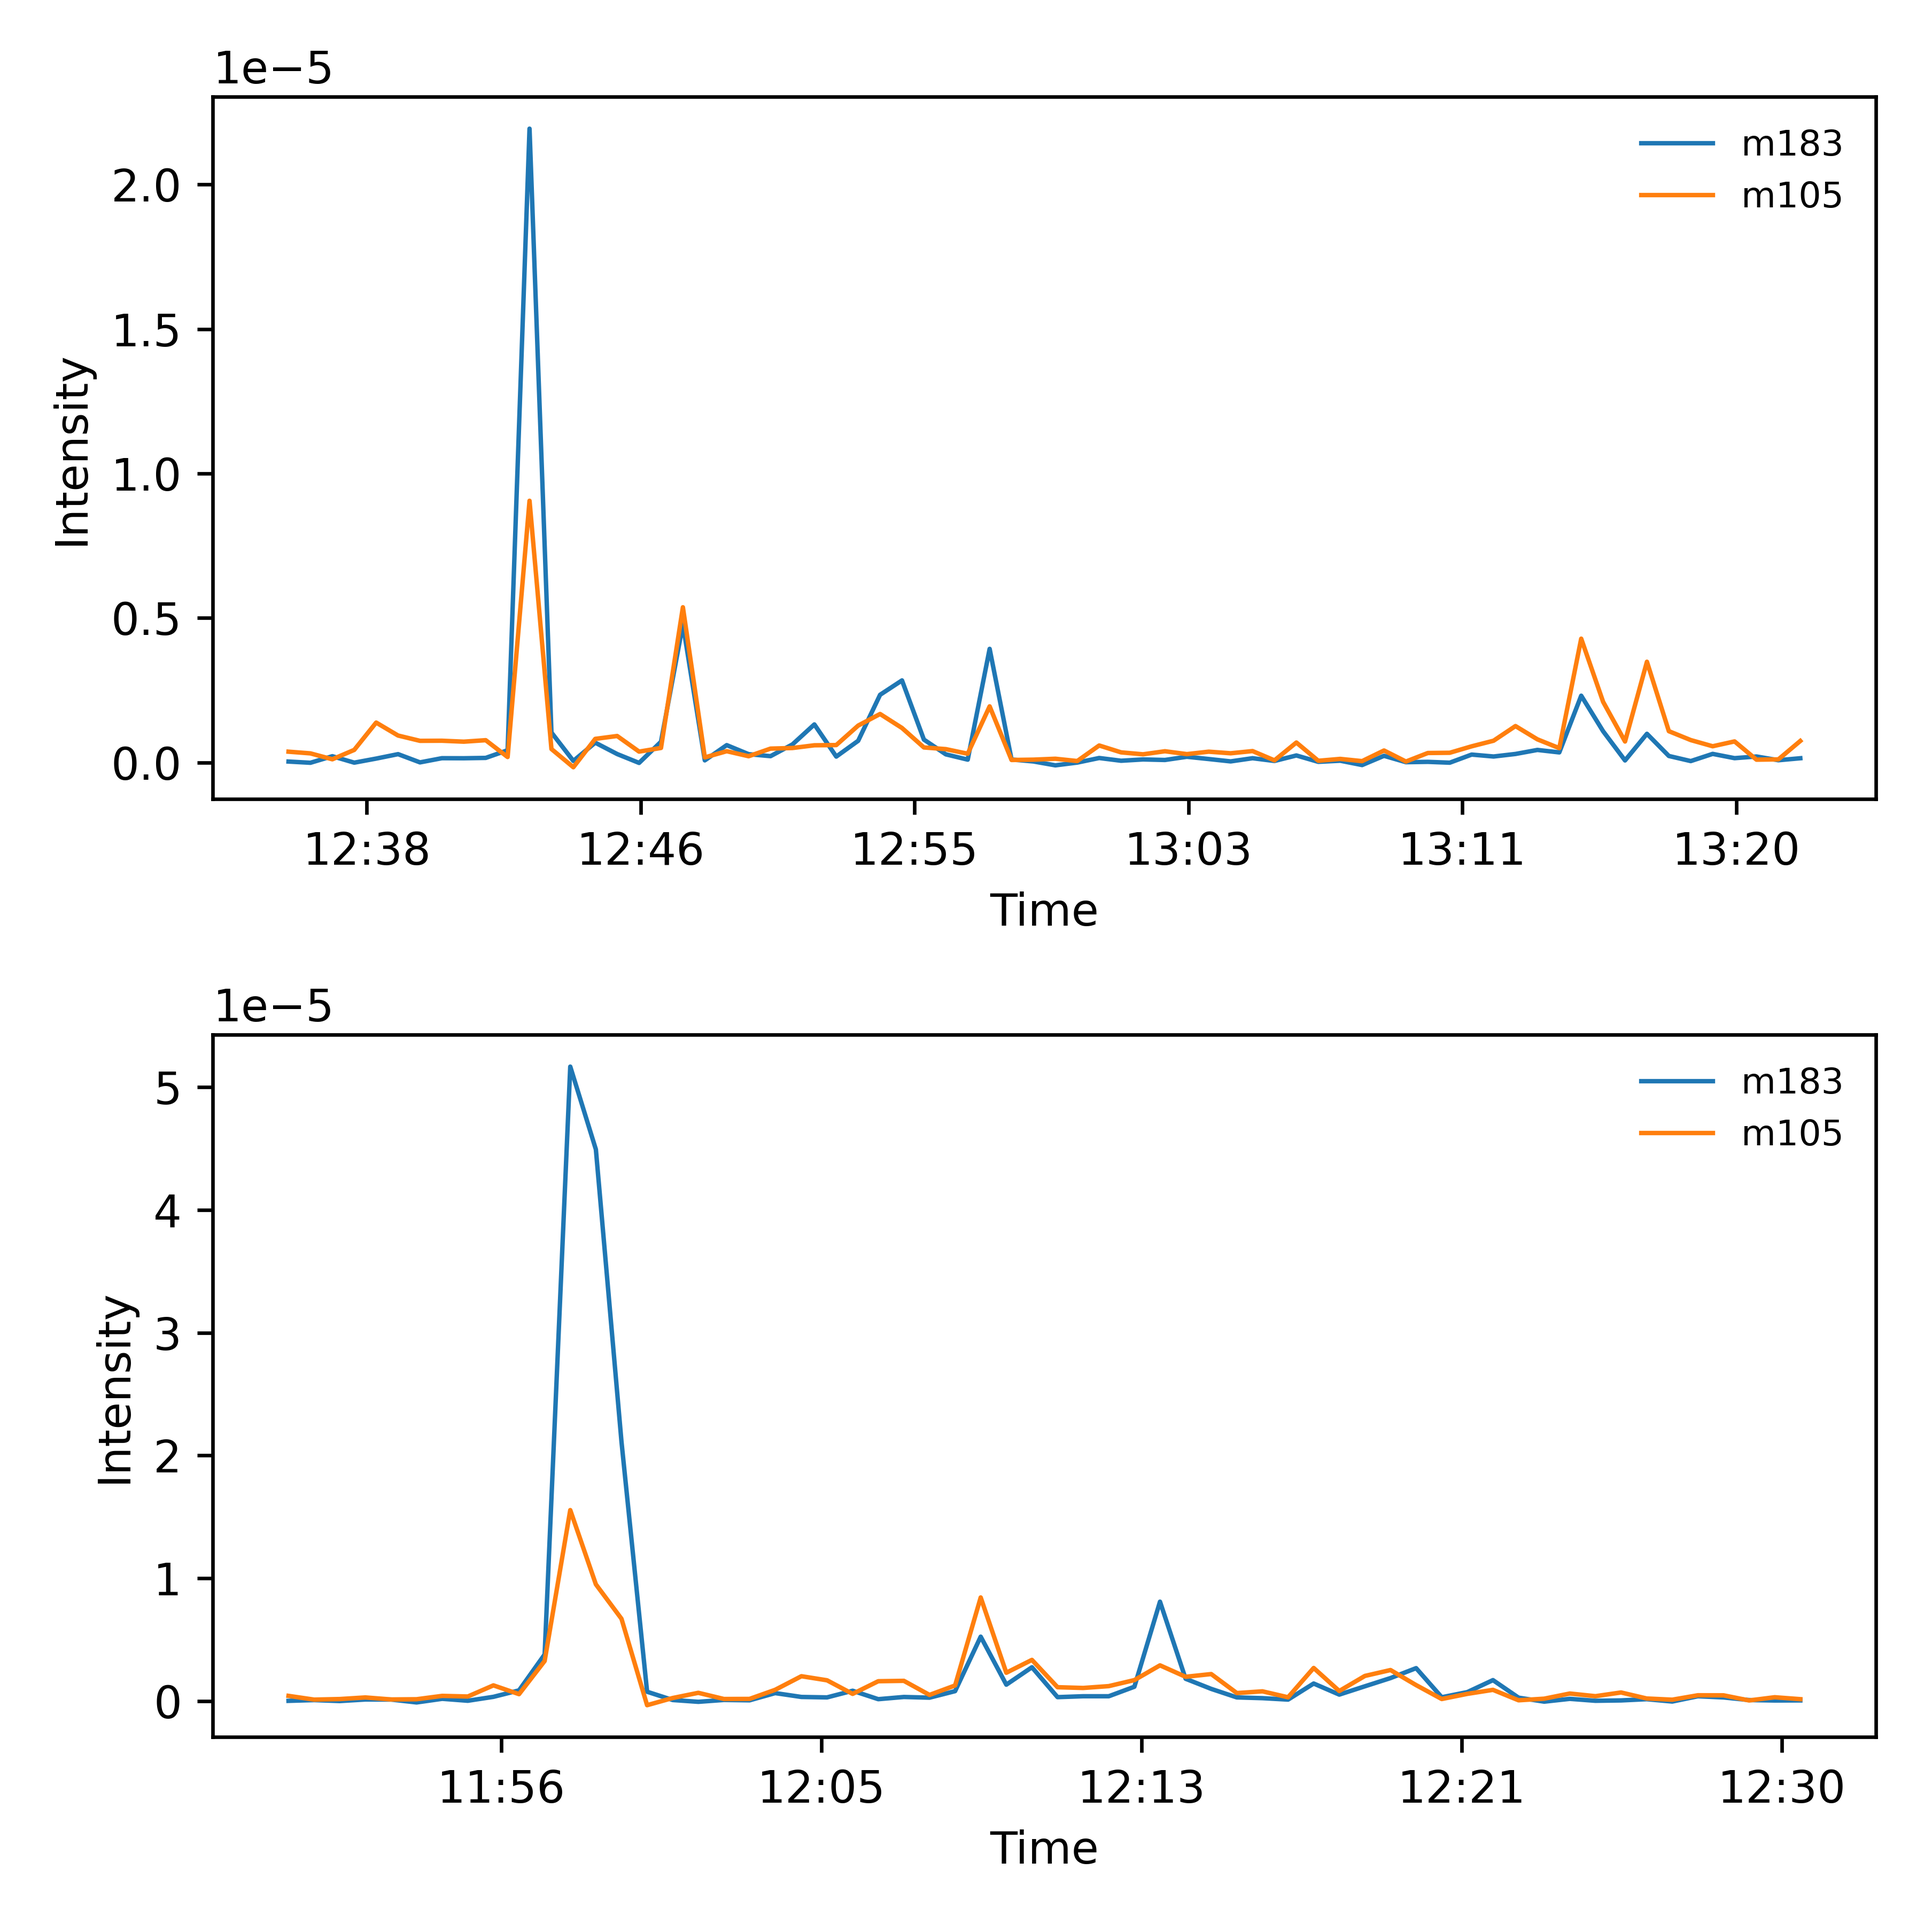
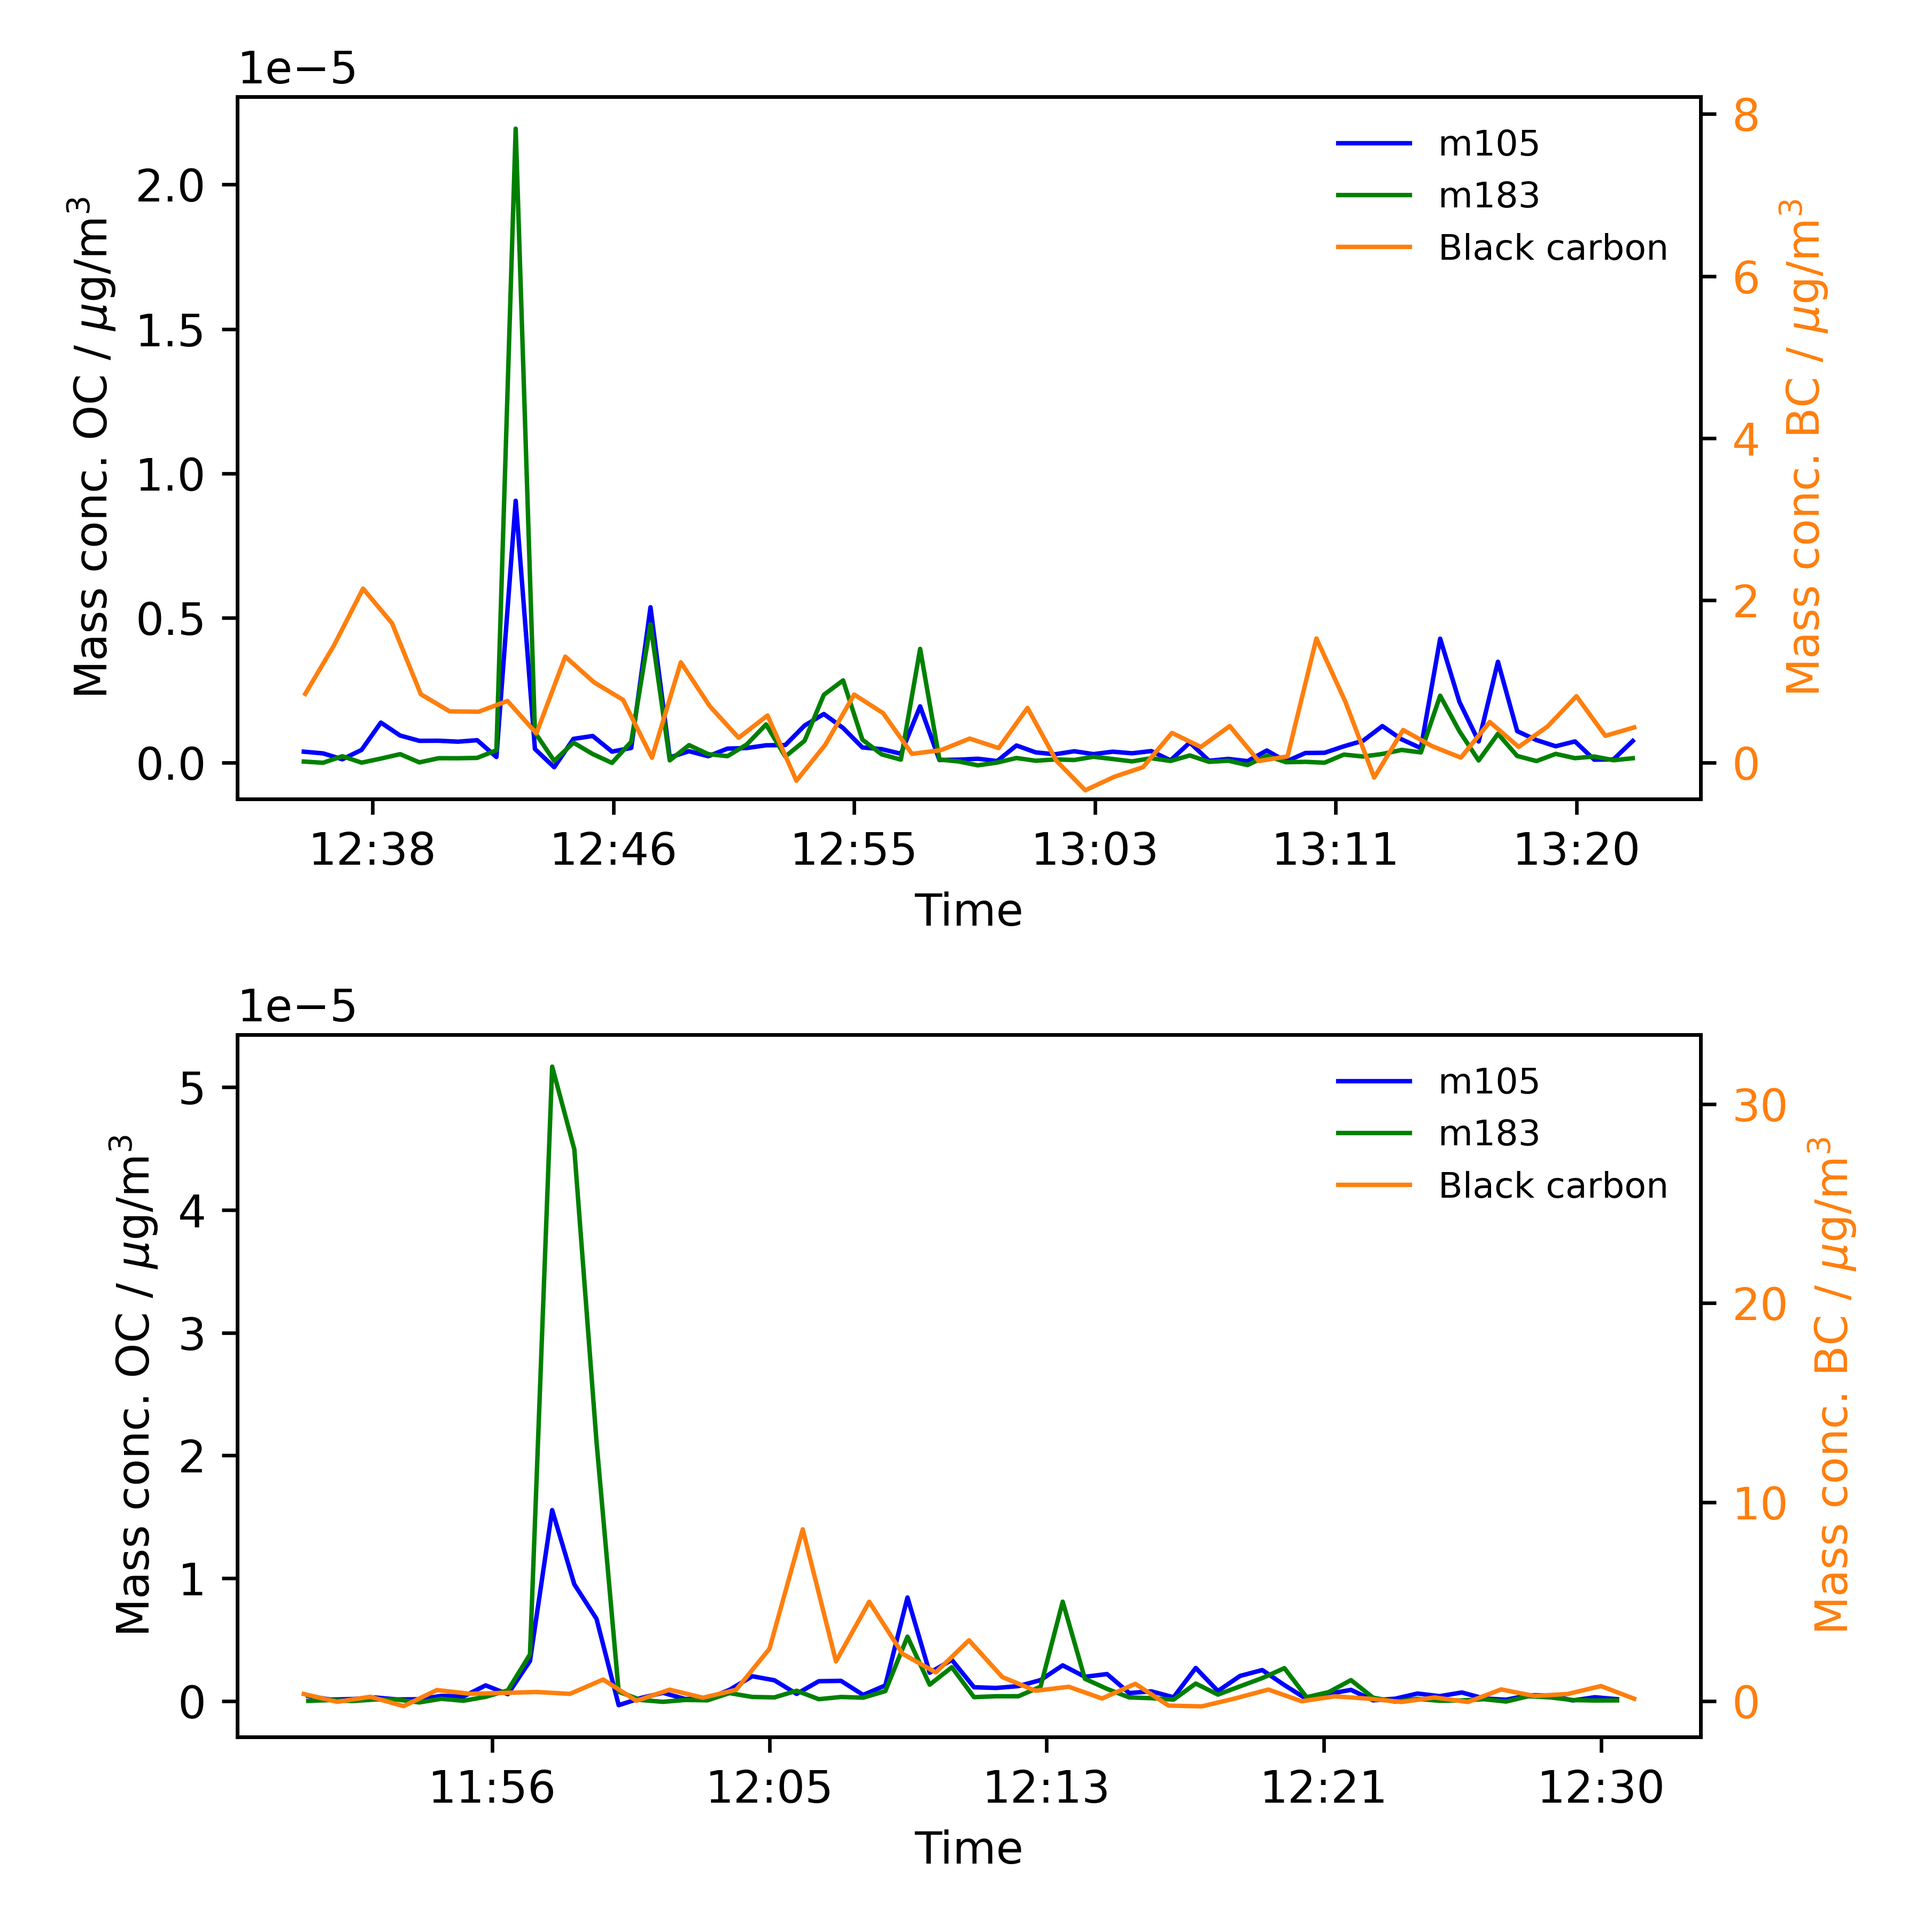
update

diff --git a/field.py b/field.py
@@ -159,7 +159,7 @@ def read_csv_BC(path, parent_path, bc_station):
                             new_df[col] = df[col]
                         
                         new_df['Time'] = pd.to_timedelta(new_df['Time local (hh:mm:ss)']).astype('timedelta64[s]')  # .str.split().str[1]
-                        new_df = new_df.set_index('Time')
+                        # new_df = new_df.set_index('Time')
 
                         new_df = new_df.dropna()
                         for key in new_df.keys():
@@ -212,7 +212,7 @@ def plot_ACSM_BC(ax, df_ACSM, df_BC, acsm_key, n):
     mask = df_ACSM[acsm_key] != 0
     p1, = ax.plot(df_ACSM['Time'][mask], df_ACSM[acsm_key][mask], lw = 1, label = 'Organic carbon', color = 'tab:blue')
     ax2 = ax.twinx()
-    p2, = ax2.plot(df_BC.index, df_BC['IR BCc'], lw = 1, label = 'Black carbon', color = 'tab:orange')
+    p2, = ax2.plot(df_BC['Time'], df_BC['IR BCc'], lw = 1, label = 'Black carbon', color = 'tab:orange')
 
     formatter = FuncFormatter(lambda s, x: time.strftime('%H:%M', time.gmtime(s)))
     ax.xaxis.set_major_formatter(formatter)
